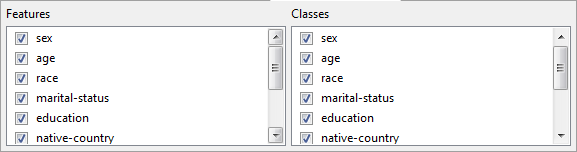
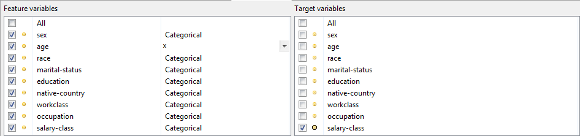
Document classification analysis

diff --git a/help/v3.7.0/utility/accuracy.html b/help/v3.7.0/utility/accuracy.html
@@ -1,13 +1,24 @@
 <div>
     <h4>Classification accuracy</h4>
-    <p>This section can be used to compare the classification accuracy that can be achieved with a generic implementation of logistic regression for
-       both the input and the output data sets. The results are obtained with 10-fold cross-validation.
-       In the view displayed at the bottom, the features and classes that are to be analyzed can be selected.</p>
-    <img src="/help/v3.7.0/img/utility/analyze_9.png" alt="Classification accuracy" width="577" height="152" />
-    <p>The section displayed at the top shows the results of the classification process. For input as well as output data, it displays
-       the number of instances of the class attribute as well as a baseline accuracy. For the input data set the baseline accuracy is defined as the accuracy
-       that can be achieved with the ZeroR classification method. For the output data set the baseline accuracy is defined as the accuracy 
-       that can be achieved when classifying the input data set. For output data, the view also displays
-       the difference in the number of instances of the class attribute compared to the input data set. </p>
-    <img src="/help/v3.7.0/img/utility/analyze_10.png" alt="Classification accuracy" width="579" height="197" />
+    <p>This section can be used to compare the performance of classification models trained on anonymized output data. 
+    Please note that ARX supports a specific quality model for optimizing output data towards suitability as a training set for model generation.</p>
+    <p>In the view displayed at the bottom left, the features and target variables can be selected and feature scaling functions may be specified:</p>
+    <img src="/help/v3.7.0/img/utility/analyze_9.png" alt="Classification accuracy" width="580" height="136" />
+    <p>In the view displayed at the bottom right, different types of classification models can be selected and configured:</p>
+    <img src="/help/v3.7.0/img/utility/analyze_18.png" alt="Classification accuracy" width="580" height="139" />
+    <p>ARX currently (3.7.0) supports the following types of classification models:</p>
+       <ol>
+    	<li>Logistic regression.</li>
+        <li>Random forest.</li>
+        <li>Naive Bayes.</li>
+    </ol>
+    <p>The section displayed at the top shows the results of the classification analysis. For input as well as output data, it displays
+    the number of instances of the class attribute as well as various performance parameters. Performance measures are typically
+    expressed relative to the performance of a trivial ZeroR classifier trained on unmodified input data and a the selected type of model 
+    also trained on input data. Results are obtained using k-fold cross-validation.</p>
+    <p>The section "overview", displays relative classification accuracy as well as sensitivity, specificity and Brier score:</p>
+    <img src="/help/v3.7.0/img/utility/analyze_19.png" alt="Classification accuracy" width="580" height="160" />
+    <p>The section "ROC Curves", displays ROC curves and the Area under the ROC Curve (AUC) for selected instances of the class attribute:</p>
+    <img src="/help/v3.7.0/img/utility/analyze_20.png" alt="Classification accuracy" width="580" height="258" />
+    <p>Please note that ARX uses a one-vs-all approach to calculate performance measures for multinomial classifiers.</p>
 </div>

diff --git a/help/v3.7.0/configuration/general_settings.html b/help/v3.7.0/configuration/general_settings.html
@@ -25,9 +25,10 @@
         <li>Non-uniform entropy.</li>
         <li>Normalized non-uniform entropy.</li>
         <li>KL divergence.</li>
-        <li>Loss.</li>
+        <li>Data granularity / loss.</li>
         <li>Publisher payout.</li>
         <li>Entropy-based record-level information loss.</li>
+        <li>Classification accuracy.</li>
     </ol>
     <p>Monotonicity is a property of privacy models and utility measures than can be exploited to make the
        de-identification process more efficient. In real-world settings, privacy models and utility measures are only rarely monotonic. 
